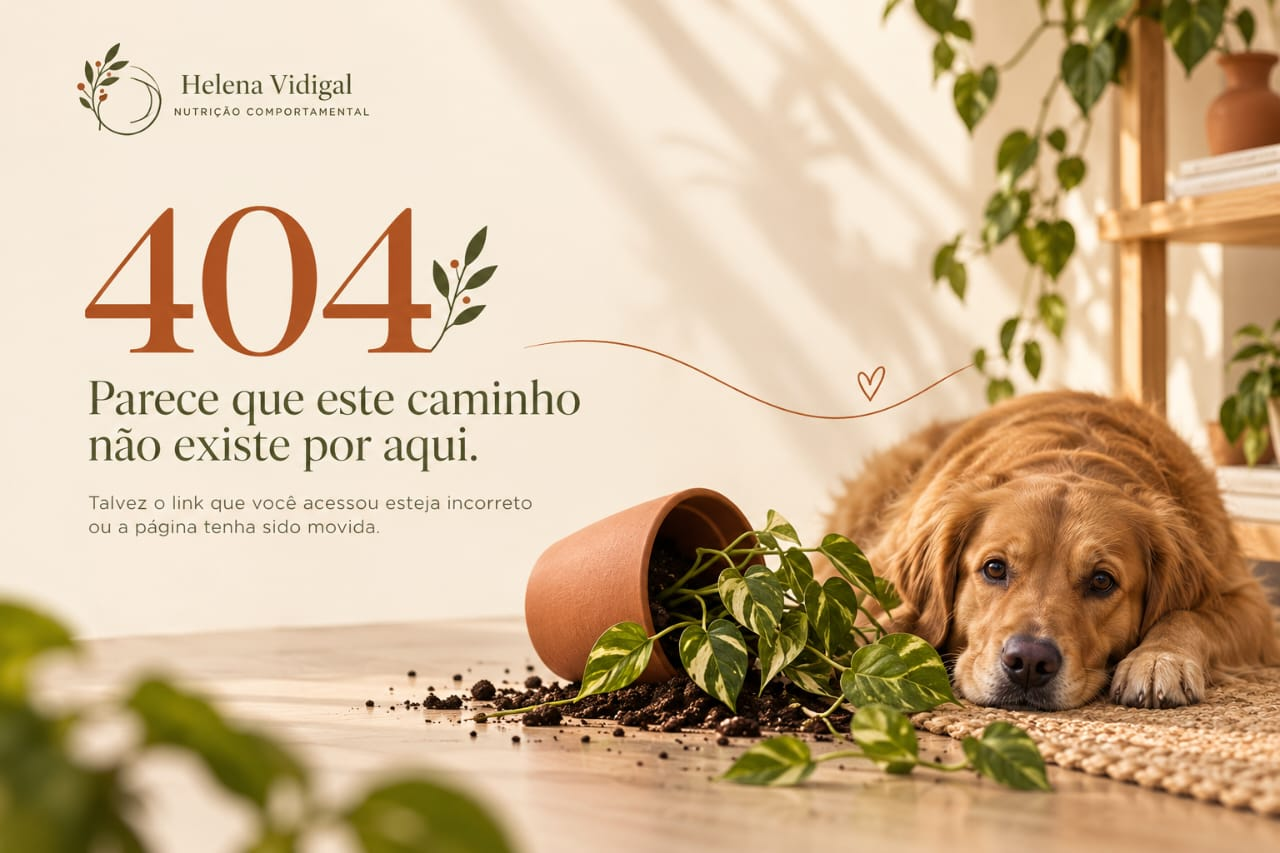
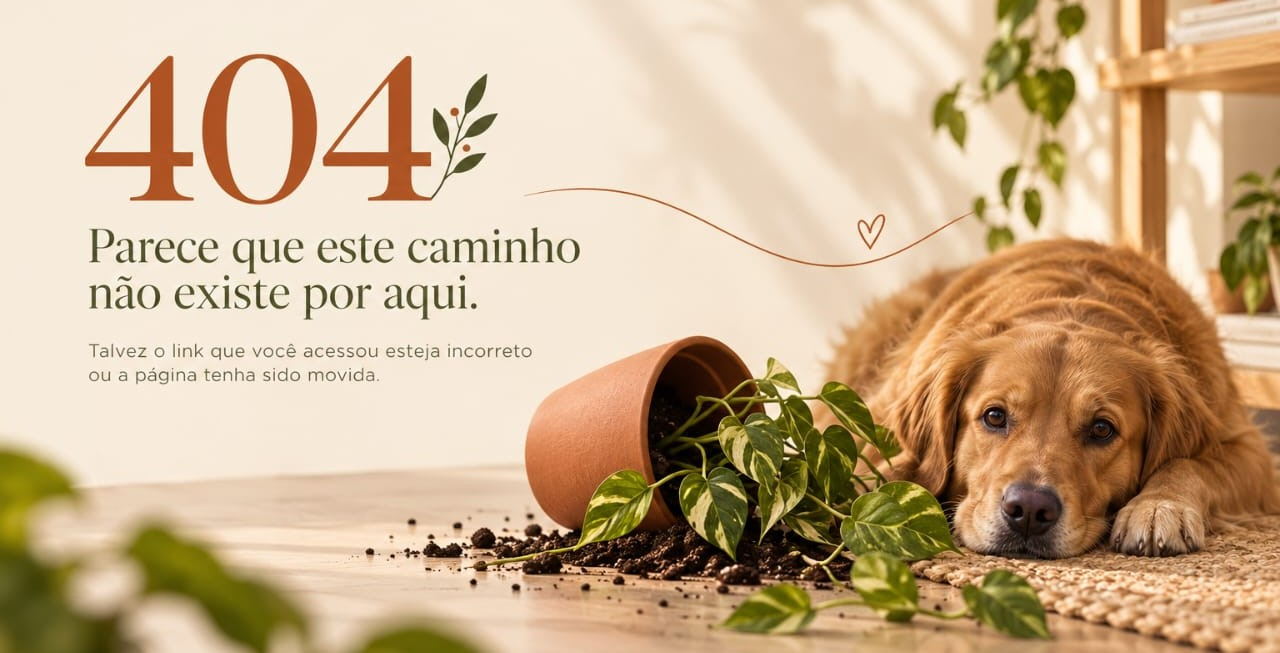
Ajusta tamanho da imagem e layout da pagina 404

diff --git a/404.html b/404.html
@@ -1,11 +1,6 @@
 <!DOCTYPE html>
 <html lang="pt-BR">
 <head>
-  <!-- O <base> faz TODOS os caminhos abaixo (e os do components.js) partirem da raiz do site,
-       mesmo quando o link quebrado é algo como /blog/xyz. Deve ser o primeiro item do <head>.
-       Se o site ficar numa subpasta (ex.: usuario.github.io/nome-do-repo/), troque por
-       <base href="/nome-do-repo/"> -->
-  <base href="/">
   <meta charset="utf-8">
   <meta name="viewport" content="width=device-width, initial-scale=1">
   <meta name="robots" content="noindex">
@@ -30,21 +25,27 @@
   <main>
     <section class="e404">
       <div class="wrap">
-        <p class="e404__num" aria-hidden="true">404</p>
+        
+        <!-- Imagem personalizada do 404 -->
+        <div class="e404__img-container">
+          <img src="midia/erro/404.jpeg" alt="Página não encontrada - 404 Helena Vidigal" class="e404__img">
+        </div>
+
         <h1>Essa página saiu do cardápio</h1>
         <p>O link que você abriu não existe mais ou foi digitado errado. Volte para o início ou escolha uma destas páginas.</p>
 
-        <p class="e404__acoes">
+        <div class="e404__acoes">
           <a class="btn" href="index.html">Voltar ao início</a>
           <a class="btn btn--ghost" href="blog.html">Ler o blog</a>
-        </p>
+        </div>
 
-        <p class="e404__links">
+        <div class="e404__links">
           <a href="quiz.html">Quiz</a>
           <a href="receitas.html">Receitas</a>
           <a href="biblioteca.html">Biblioteca</a>
           <a href="contato.html">Contato</a>
-        </p>
+        </div>
+
       </div>
     </section>
   </main>

diff --git a/css/pages.css b/css/pages.css
@@ -914,3 +914,65 @@ body.reader-open .fab {
 .e404__links a {
   margin: 0 0.4rem;
 }
+
+/* ---------- Estilização da Página 404 (Imagem Expandida) ---------- */
+.e404 {
+  padding: 20px 20px 60px;
+  text-align: center;
+}
+
+.e404 .wrap {
+  max-width: 1200px; /* Permite que o contêiner se expanda bem na tela */
+  margin: 0 auto;
+}
+
+.e404__img-container {
+  margin-bottom: 24px;
+  display: flex;
+  justify-content: center;
+  width: 100%;
+}
+
+.e404__img {
+  width: 100%;
+  max-width: 1100px; /* Aumenta a imagem significativamente */
+  height: auto;      /* Mantém a proporção original sem cortar */
+  border-radius: 20px;
+  box-shadow: 0 10px 30px rgba(0, 0, 0, 0.1);
+  display: block;
+}
+
+.e404 h1 {
+  font-family: 'Fraunces', serif;
+  font-size: 2rem;
+  color: #333;
+  margin-top: 24px;
+  margin-bottom: 12px;
+}
+
+.e404 p {
+  color: #666;
+  font-size: 1.05rem;
+  margin-bottom: 24px;
+}
+
+.e404__acoes {
+  display: flex;
+  gap: 16px;
+  justify-content: center;
+  margin-bottom: 24px;
+  flex-wrap: wrap;
+}
+
+.e404__links {
+  display: flex;
+  gap: 20px;
+  justify-content: center;
+  flex-wrap: wrap;
+}
+
+.e404__links a {
+  color: #8c6239;
+  text-decoration: none;
+  font-weight: 500;
+}
